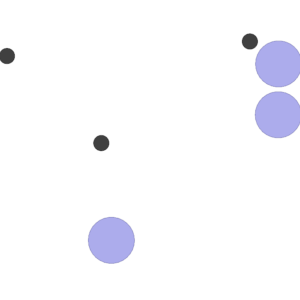
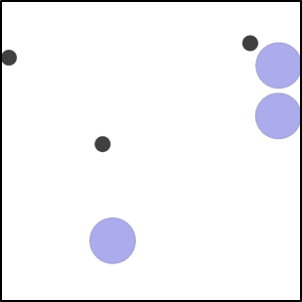
update assignment2 readme

diff --git a/Assignment2/README.md b/Assignment2/README.md
@@ -12,6 +12,8 @@
 
 ![mpe_demo.png](https://github.com/joenghl/SYSU_2023SpringRL/blob/master/docs/images/mpe_demo.png?raw=true)
 
+<div align=center><img width = '300' height ='300' src ="https://github.com/joenghl/SYSU_2023SpringRL/blob/master/docs/images/mpe_demo.png?raw=true"/></div>
+
 在此场景中，3 个 Agent 需要学会相互协作去分别导航至 3 个 Landmark，并在此过程中避免相互碰撞。此任务为完全合作式任务，Agent 间仅有合作关系，不存在竞争关系。
 
 ### 观测空间
